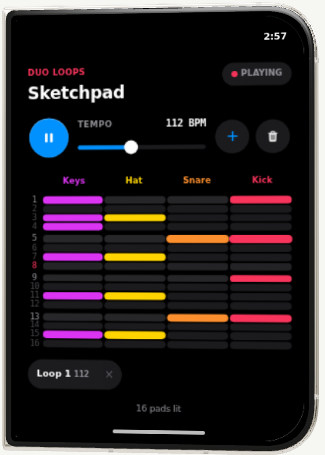
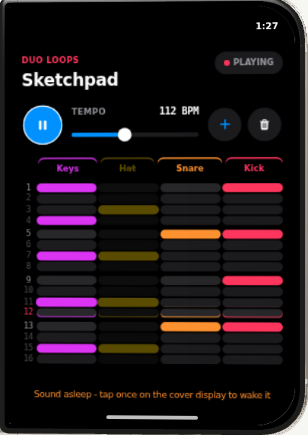
music-sketchpad: polish grid, transport and playhead clarity
- Per-track color dots on labels and colored top accents on cover label chips, matching pad hues for instant track distinction
- Colored playhead edge stripe under each track's playing step
- Muted tracks strike through the label and dim across the row
- Play button gets a white ring while playing; pad and slider hover/press feedback via shared motion tokens; tempo thumb grows while dragging and the slider shows a focus-visible ring
- Loop delete affordance turns red on hover
- Add sequencer.test.ts covering transport math, grid edits, document round-trips and loop naming
- Recapture screenshots from the running polished app

diff --git a/community-apps/music-sketchpad/sequencer.test.ts b/community-apps/music-sketchpad/sequencer.test.ts
@@ -1,0 +1,155 @@
+// `bun:test` is a host import the submission gate refuses, so these checks run
+// through the tiny runner below: `bun sequencer.test.ts` directly, and `bun test`
+// too (a failing check throws while the file is evaluated, which the runner
+// reports as a failure).
+import {
+  clampTempo,
+  defaultMutes,
+  emptyGrid,
+  freshLive,
+  gridCount,
+  gridOn,
+  gridSet,
+  gridToggle,
+  MAX_TEMPO,
+  MIN_TEMPO,
+  nextLoopName,
+  parseEngine,
+  parseLive,
+  parseLoops,
+  parseSketch,
+  pause,
+  play,
+  reanchor,
+  starterGrid,
+  stepAt,
+  stepMs,
+  TRACK_COUNT,
+  writeLive,
+  writeSketch
+} from './sequencer.ts'
+
+let passed = 0
+const failures: string[] = []
+function check(name: string, fn: () => void) {
+  try {
+    fn()
+    passed++
+  } catch (error) {
+    failures.push(`${name}: ${error instanceof Error ? error.message : String(error)}`)
+  }
+}
+function eq(actual: unknown, want: unknown) {
+  if (JSON.stringify(actual) !== JSON.stringify(want))
+    throw new Error(`got ${JSON.stringify(actual)}, want ${JSON.stringify(want)}`)
+}
+function ok(cond: boolean, what: string) {
+  if (!cond) throw new Error(what)
+}
+
+check('stepMs is a sixteenth note at tempo', () => {
+  eq(stepMs(120), 125)
+  eq(stepMs(60), 250)
+})
+
+check('stepAt holds a paused transport and advances a playing one linearly', () => {
+  eq(stepAt({ on: false, step: 3 }, 120, 99999), 3)
+  const t = { on: true, atMs: 1000, atStep: 2 } as const
+  eq(stepAt(t, 120, 1000), 2)
+  eq(stepAt(t, 120, 1125), 3) // one 125ms step later
+  eq(stepAt(t, 120, 1000 + 16 * 125), 18) // past the bar, unwrapped
+})
+
+check('play and pause round-trip the audible position', () => {
+  const on = play({ on: false, step: 1.5 }, 120, 500)
+  eq(on, { on: true, atMs: 500, atStep: 1.5 })
+  const off = pause(on, 120, 500 + 2 * 125) // two steps later
+  eq(off, { on: false, step: 3.5 })
+  // wraps within the bar
+  const wrapped = pause({ on: true, atMs: 0, atStep: 15 }, 120, 2 * 125)
+  eq(wrapped, { on: false, step: 1 })
+})
+
+check('reanchor keeps position across a tempo change', () => {
+  const on = { on: true, atMs: 0, atStep: 0 } as const
+  const moved = reanchor(on, 120, 250) // 2 steps at 120bpm
+  eq(moved, { on: true, atMs: 250, atStep: 2 })
+  // after reanchor the NEW tempo advances from the preserved position
+  eq(stepAt(moved, 60, 250 + 250), 3) // one 250ms step at 60bpm
+  const off = { on: false, step: 7 } as const
+  eq(reanchor(off, 120, 999), off)
+})
+
+check('clampTempo bounds and rounds', () => {
+  eq(clampTempo(10), MIN_TEMPO)
+  eq(clampTempo(999), MAX_TEMPO)
+  eq(clampTempo(112.6), 113)
+})
+
+check('grid edits only touch the addressed cell', () => {
+  let grid = emptyGrid()
+  eq(gridCount(grid), 0)
+  grid = gridToggle(grid, 1, 3)
+  ok(gridOn(grid, 1, 3), 'toggled on')
+  eq(gridCount(grid), 1)
+  grid = gridSet(grid, 1, 3, true)
+  eq(gridCount(grid), 1) // idempotent set
+  grid = gridSet(grid, 1, 3, false)
+  ok(!gridOn(grid, 1, 3), 'set off')
+  // other tracks untouched
+  eq(grid[0], 0)
+  eq(grid[2], 0)
+})
+
+check('starterGrid grooves out of the box', () => {
+  const grid = starterGrid()
+  eq(grid.length, TRACK_COUNT)
+  eq(gridCount(grid), 15)
+})
+
+check('freshLive prefers a stored sketch and starts paused', () => {
+  const live = freshLive('cover', { grid: emptyGrid(), mutes: [true, false, false, false], tempo: 96 })
+  eq(live.tempo, 96)
+  eq(live.transport, { on: false, step: 0 })
+  eq(live.mutes[0], true)
+  eq(freshLive('inner', null).tempo, 112)
+})
+
+check('live/sketch documents round-trip and reject malformed payloads', () => {
+  const live = freshLive('cover')
+  const back = parseLive(writeLive(live))
+  eq(back, { ...live, loop: undefined })
+  eq(parseLive('{"by":1}'), null)
+  eq(parseLive('not json'), null)
+  eq(parseLive(null), null)
+  // mildly out-of-range tempo clamps on read; far out rejects
+  const warm = parseLive(JSON.stringify({ ...live, tempo: 200 }))
+  eq(warm?.tempo, MAX_TEMPO)
+  eq(parseLive(JSON.stringify({ ...live, tempo: 999 })), null)
+  const sketch = { grid: starterGrid(), mutes: defaultMutes(), tempo: 100 }
+  eq(parseSketch(writeSketch(sketch)), sketch)
+  eq(parseSketch(JSON.stringify({ grid: [1], tempo: 100 })), null)
+})
+
+check('parseLoops drops bad entries and nextLoopName fills gaps', () => {
+  const raw = JSON.stringify([
+    { id: 'a', name: 'Loop 1', tempo: 100, grid: starterGrid(), savedAt: 1 },
+    { id: 5, name: 'bogus', tempo: 'x', grid: [] },
+    { id: 'b', name: 'Loop 3', tempo: 90, grid: emptyGrid(), savedAt: 2 }
+  ])
+  const loops = parseLoops(raw)
+  eq(loops.length, 2)
+  eq(nextLoopName(loops), 'Loop 2') // gap before climbing
+  eq(parseLoops('[]'), [])
+  eq(parseLoops('junk'), [])
+})
+
+check('parseEngine tolerates missing fields and bad input', () => {
+  eq(parseEngine('{"on":true}'), { on: true, blocked: false, at: undefined })
+  eq(parseEngine('{"on":false,"blocked":true,"at":"cover"}'), { on: false, blocked: true, at: 'cover' })
+  eq(parseEngine('{"on":"yes"}'), null)
+  eq(parseEngine(null), null)
+})
+
+if (failures.length) throw new Error(`${failures.length} failing checks\n${failures.join('\n')}`)
+console.log(`sequencer.test.ts: ${passed} checks passed`)

diff --git a/community-apps/music-sketchpad/styles.ts b/community-apps/music-sketchpad/styles.ts
@@ -142,6 +142,8 @@ export const styles = stylex.create({
     transitionTimingFunction: easing.pop,
     transform: { default: 'scale(1)', ':active': motion.press }
   },
+  // The orb carries the one state cue beyond the glyph swap while running.
+  playButtonOn: { boxShadow: `${shadow.rim},${shadow.float},inset 0 0 0 1.5px ${colors.white}` },
   playGlyph: { transform: 'translateX(1px)', display: 'flex' },
   tempoBox: {
     flexGrow: 1,
@@ -170,14 +172,17 @@ export const styles = stylex.create({
     display: 'flex',
     alignItems: 'center',
     cursor: 'pointer',
-    touchAction: 'none'
+    touchAction: 'none',
+    borderRadius: radius.sm,
+    outlineWidth: 0,
+    boxShadow: { ':focus-visible': `inset 0 0 0 1.5px ${app.link}` }
   },
   sliderTrack: {
     position: 'relative',
     height: 6,
     width: '100%',
     borderRadius: radius.pill,
-    backgroundColor: app.fill3,
+    backgroundColor: { default: app.fill3, ':hover': app.fill2 },
     overflow: 'hidden'
   },
   sliderFill: (ratio: number) => ({
@@ -198,8 +203,12 @@ export const styles = stylex.create({
     backgroundColor: colors.white,
     boxShadow: shadow.card,
     transform: 'translate(-50%, -50%)',
-    pointerEvents: 'none'
+    pointerEvents: 'none',
+    transitionProperty: 'transform',
+    transitionDuration: motion.pressDuration,
+    transitionTimingFunction: easing.pop
   }),
+  sliderThumbHot: { transform: 'translate(-50%, -50%) scale(1.2)' },
   utilRow: { display: 'flex', flexDirection: 'row', gap: space.sm, flexShrink: 0 },
   utilButton: {
     width: 44,
@@ -238,7 +247,7 @@ export const styles = stylex.create({
     paddingBlock: space.xs,
     paddingInline: 0,
     borderRadius: radius.sm,
-    backgroundColor: 'transparent',
+    backgroundColor: { default: 'transparent', ':hover': app.fill3 },
     fontFamily: fonts.system,
     fontSize: typeScale.caption2,
     fontWeight: weight.semibold,
@@ -269,19 +278,26 @@ export const styles = stylex.create({
     minHeight: 0,
     borderWidth: 0,
     borderRadius: radius.sm,
-    backgroundColor: app.fill3,
+    backgroundColor: { default: app.fill3, ':hover': app.fill2 },
     cursor: 'pointer',
     paddingBlock: 0,
     paddingInline: 0,
+    transform: { default: 'scale(1)', ':active': motion.press },
     transitionProperty: 'transform, background-color, box-shadow',
     transitionDuration: '.12s',
     transitionTimingFunction: easing.pop
   },
-  padBeat: { backgroundColor: app.fill2 },
+  padBeat: { backgroundColor: { default: app.fill2, ':hover': app.fill } },
   // Unlit cells under the playhead lift one step of surface.
   padPlay: { backgroundColor: app.fill },
   // Lit cells pop as the playhead passes over them.
   padPlayLit: { transform: 'scale(1.12)' },
+  // The playhead also reads as a four-colour underline, one hue per track,
+  // so the current step is visible even on unlit cells.
+  edgeKeys: { boxShadow: `inset 0 -2px 0 0 ${colors.purpleDark}` },
+  edgeHat: { boxShadow: `inset 0 -2px 0 0 ${colors.yellowDark}` },
+  edgeSnare: { boxShadow: `inset 0 -2px 0 0 ${colors.orangeDark}` },
+  edgeKick: { boxShadow: `inset 0 -2px 0 0 ${colors.pinkDark}` },
   padLit: {
     animationName: { default: padIn, [reduce]: 'none' },
     animationDuration: '.18s',
@@ -298,6 +314,19 @@ export const styles = stylex.create({
   labelSnare: { color: colors.orangeDark },
   labelKick: { color: colors.pinkDark },
   padMuted: { opacity: 0.35 },
+  // Muted tracks strike their label through so the off state is not colour-only.
+  labelMuted: { textDecorationLine: 'line-through' },
+  // A track-colour accent tops each cover label so the column's hue reads even
+  // before any pad is lit.
+  accentKeys: { boxShadow: `inset 0 2px 0 0 ${colors.purpleDark}` },
+  accentHat: { boxShadow: `inset 0 2px 0 0 ${colors.yellowDark}` },
+  accentSnare: { boxShadow: `inset 0 2px 0 0 ${colors.orangeDark}` },
+  accentKick: { boxShadow: `inset 0 2px 0 0 ${colors.pinkDark}` },
+  labelDot: { width: 8, height: 8, borderRadius: radius.circle, flexShrink: 0 },
+  dotKeys: { backgroundColor: colors.purpleDark },
+  dotHat: { backgroundColor: colors.yellowDark },
+  dotSnare: { backgroundColor: colors.orangeDark },
+  dotKick: { backgroundColor: colors.pinkDark },
 
   // Wide arrangement: labels down the left, steps across.
   padRowWide: {
@@ -391,7 +420,7 @@ export const styles = stylex.create({
     paddingInline: space.sm,
     marginRight: space.xxs,
     backgroundColor: 'transparent',
-    color: app.label3,
+    color: { default: app.label3, ':hover': colors.redDark },
     fontFamily: fonts.system,
     fontSize: typeScale.subheadline,
     lineHeight: 1,

diff --git a/community-apps/music-sketchpad/main.tsx b/community-apps/music-sketchpad/main.tsx
@@ -62,12 +62,16 @@ const PauseGlyph = () => (
 
 const labelStyles = [styles.labelKeys, styles.labelHat, styles.labelSnare, styles.labelKick]
 const litStyles = [styles.litKeys, styles.litHat, styles.litSnare, styles.litKick]
+const edgeStyles = [styles.edgeKeys, styles.edgeHat, styles.edgeSnare, styles.edgeKick]
+const accentStyles = [styles.accentKeys, styles.accentHat, styles.accentSnare, styles.accentKick]
+const dotStyles = [styles.dotKeys, styles.dotHat, styles.dotSnare, styles.dotKick]
 
 function Sketchpad() {
   const [rootRef, wide] = useWide<HTMLElement>()
   const view = useSyncExternalStore(os.onView, () => os.view)
   const isOwner = useSyncExternalStore(os.onOwner, () => os.owner) !== null
   const [now, setNow] = useState(() => Date.now())
+  const [dragging, setDragging] = useState(false)
 
   const liveKv = useKV(os.session, 'live')
   const engineKv = useKV(os.session, 'engine')
@@ -231,7 +235,7 @@ function Sketchpad() {
         onClick={togglePlay}
         aria-label={on ? 'Pause loop' : 'Play loop'}
         aria-pressed={on}
-        {...stylex.props(styles.playButton)}
+        {...stylex.props(styles.playButton, on && styles.playButtonOn)}
       >
         {on ? <PauseGlyph /> : <PlayGlyph />}
       </button>
@@ -248,11 +252,15 @@ function Sketchpad() {
           aria-valuenow={doc.tempo}
           onPointerDown={(e) => {
             e.currentTarget.setPointerCapture(e.pointerId)
+            setDragging(true)
             slideTempo(e)
           }}
           onPointerMove={(e) => {
             if (e.buttons & 1) slideTempo(e)
           }}
+          onPointerUp={() => setDragging(false)}
+          onPointerCancel={() => setDragging(false)}
+          onLostPointerCapture={() => setDragging(false)}
           onKeyDown={(e) => {
             const step = e.shiftKey ? 8 : 1
             if (e.key === 'ArrowLeft' || e.key === 'ArrowDown') setTempo(doc.tempo - step)
@@ -266,7 +274,7 @@ function Sketchpad() {
           <div {...stylex.props(styles.sliderTrack)}>
             <div {...stylex.props(styles.sliderFill(ratio))} />
           </div>
-          <div {...stylex.props(styles.sliderThumb(ratio))} />
+          <div {...stylex.props(styles.sliderThumb(ratio), dragging && styles.sliderThumbHot)} />
         </div>
       </div>
       <div {...stylex.props(styles.utilRow)}>
@@ -305,6 +313,7 @@ function Sketchpad() {
           litPad && litStyles[track]!,
           !litPad && on && pos === step && styles.padPlay,
           litPad && on && pos === step && styles.padPlayLit,
+          on && pos === step && edgeStyles[track]!,
           doc.mutes[track]! && styles.padMuted
         )}
       />
@@ -323,7 +332,13 @@ function Sketchpad() {
             onClick={() => toggleMute(t)}
             aria-pressed={doc.mutes[t]!}
             aria-label={`${track.name}${doc.mutes[t]! ? ' muted' : ''}`}
-            {...stylex.props(styles.padLabelCol, labelStyles[t]!, doc.mutes[t]! && styles.padMuted)}
+            {...stylex.props(
+              styles.padLabelCol,
+              labelStyles[t]!,
+              accentStyles[t]!,
+              doc.mutes[t]! && styles.padMuted,
+              doc.mutes[t]! && styles.labelMuted
+            )}
           >
             {track.name}
           </button>
@@ -359,8 +374,14 @@ function Sketchpad() {
             onClick={() => toggleMute(t)}
             aria-pressed={doc.mutes[t]!}
             aria-label={`${track.name}${doc.mutes[t]! ? ' muted' : ''}`}
-            {...stylex.props(styles.padLabelRow, labelStyles[t]!, doc.mutes[t]! && styles.padMuted)}
+            {...stylex.props(
+              styles.padLabelRow,
+              labelStyles[t]!,
+              doc.mutes[t]! && styles.padMuted,
+              doc.mutes[t]! && styles.labelMuted
+            )}
           >
+            <span {...stylex.props(styles.labelDot, dotStyles[t]!)} />
             {track.name}
           </button>
           <div {...stylex.props(styles.padCellsWide)}>
